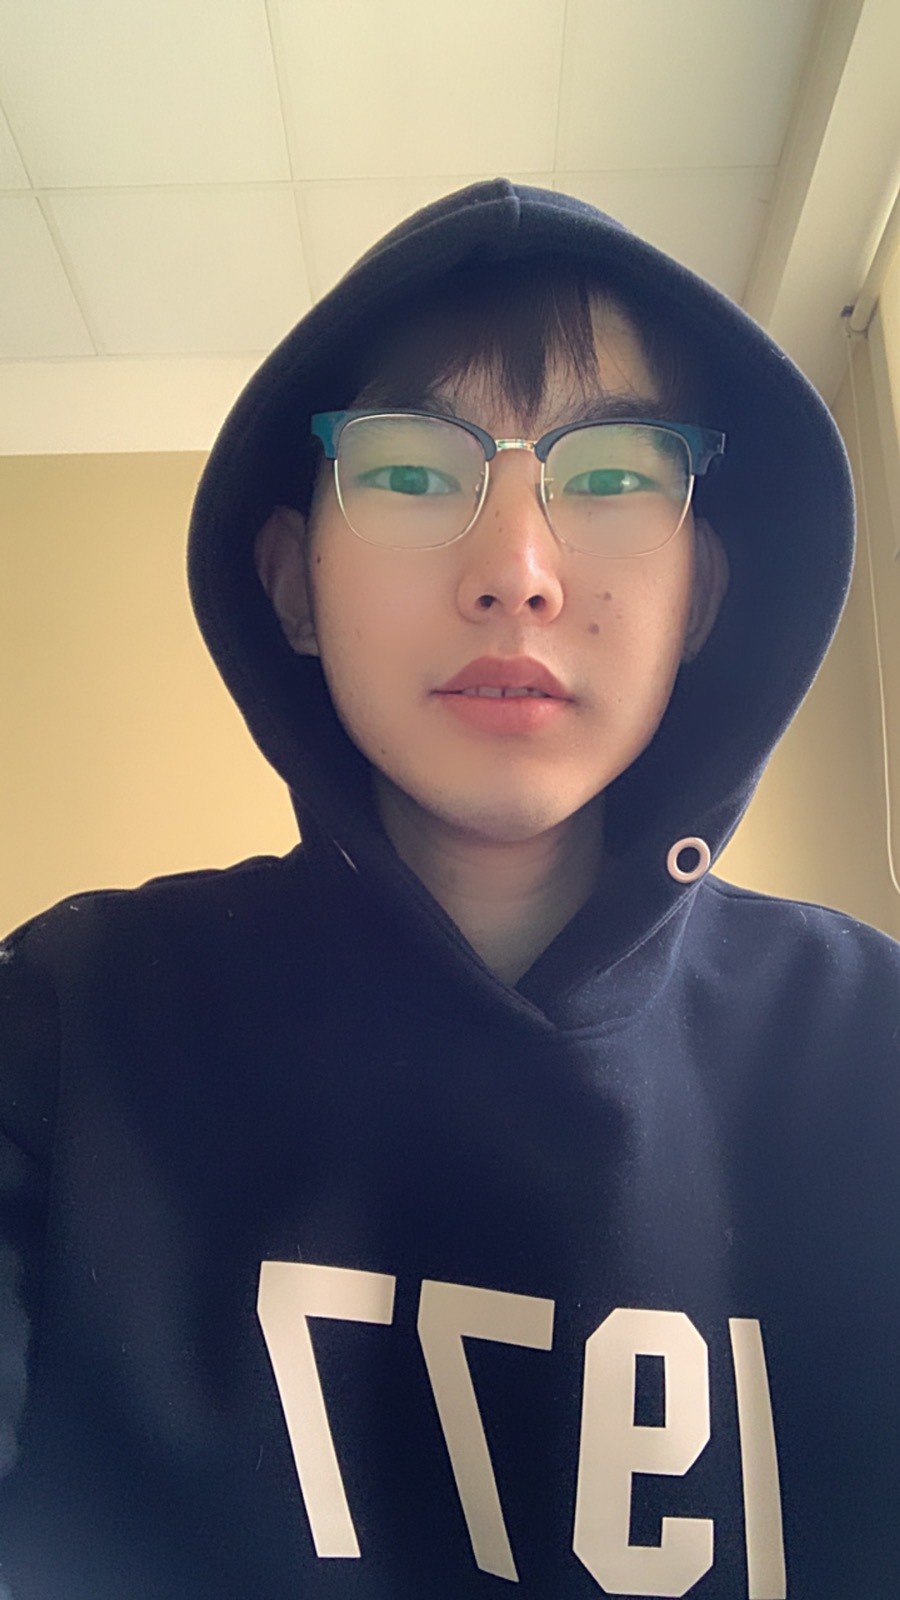
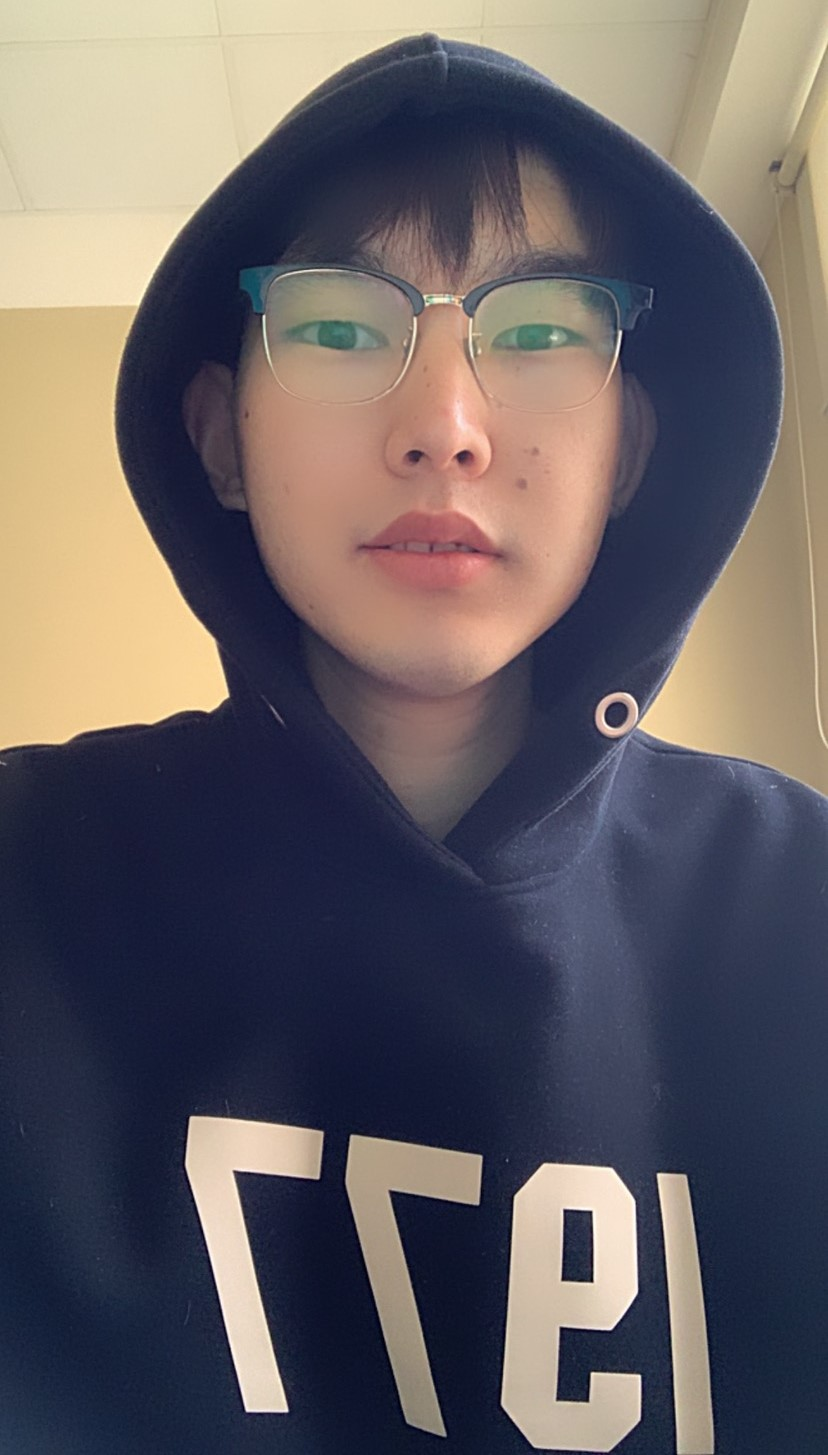
sda

diff --git a/index.html b/index.html
@@ -694,7 +694,7 @@
                     <div class="col-sm-6 col-md-6 d-flex col-lg-4 col-xl-3">
                         <div class="featured-creator-box wow fadeInUp animated" style="visibility: visible;">
                             <div class="featured-creator-img">
-                                <img src="images/creator-1.jpg" alt="creator">
+                                <img src="images/zoloo1.jpg" alt="creator">
                             </div>
                             <div class="featured-creator-name">
                                 <a class="box-title">Zolzaya Ulziibayar</a>
@@ -730,7 +730,7 @@
                     <div class="col-sm-6 col-md-6 d-flex col-lg-4 col-xl-3">
                         <div class="featured-creator-box wow fadeInUp delay-2 animated" style="visibility: visible;">
                             <div class="featured-creator-img">
-                                <img src="images/creator-3.jpg" alt="creator">
+                                <img src="images/tugsuu.jpg" alt="creator">
                             </div>
                             <div class="featured-creator-name">
                                 <a class="box-title">Tugsbayar</a>
@@ -782,7 +782,7 @@
                                 <img src="images/usukhbayar.jfif" alt="creator">
                             </div>
                             <div class="featured-creator-name">
-                                <a class="box-title">Usukhbayar Erdenebat</a>
+                                <a onclick="window.open('https://www.linkedin.com/in/usukhbayar-erdenebat-792311207/');" class="box-title">Usukhbayar Erdenebat</a>
                                 <span class="bid-price">Senior Embedded Systems Engineer</span>
                             </div>
                         </div>
@@ -806,7 +806,7 @@
                                 <img src="images/enkhzorig.jpg" alt="creator">
                             </div>
                             <div class="featured-creator-name">
-                                <a class="box-title">Enkhzorig Bayarmagnai</a>
+                                <a onclick="window.open('https://www.linkedin.com/in/enkhzorig-enzo-9b021511b/');" class="box-title">Enkhzorig Bayarmagnai</a>
                                 <span class="bid-price">Hardware Engineer</span>
                             </div>
                         </div>
